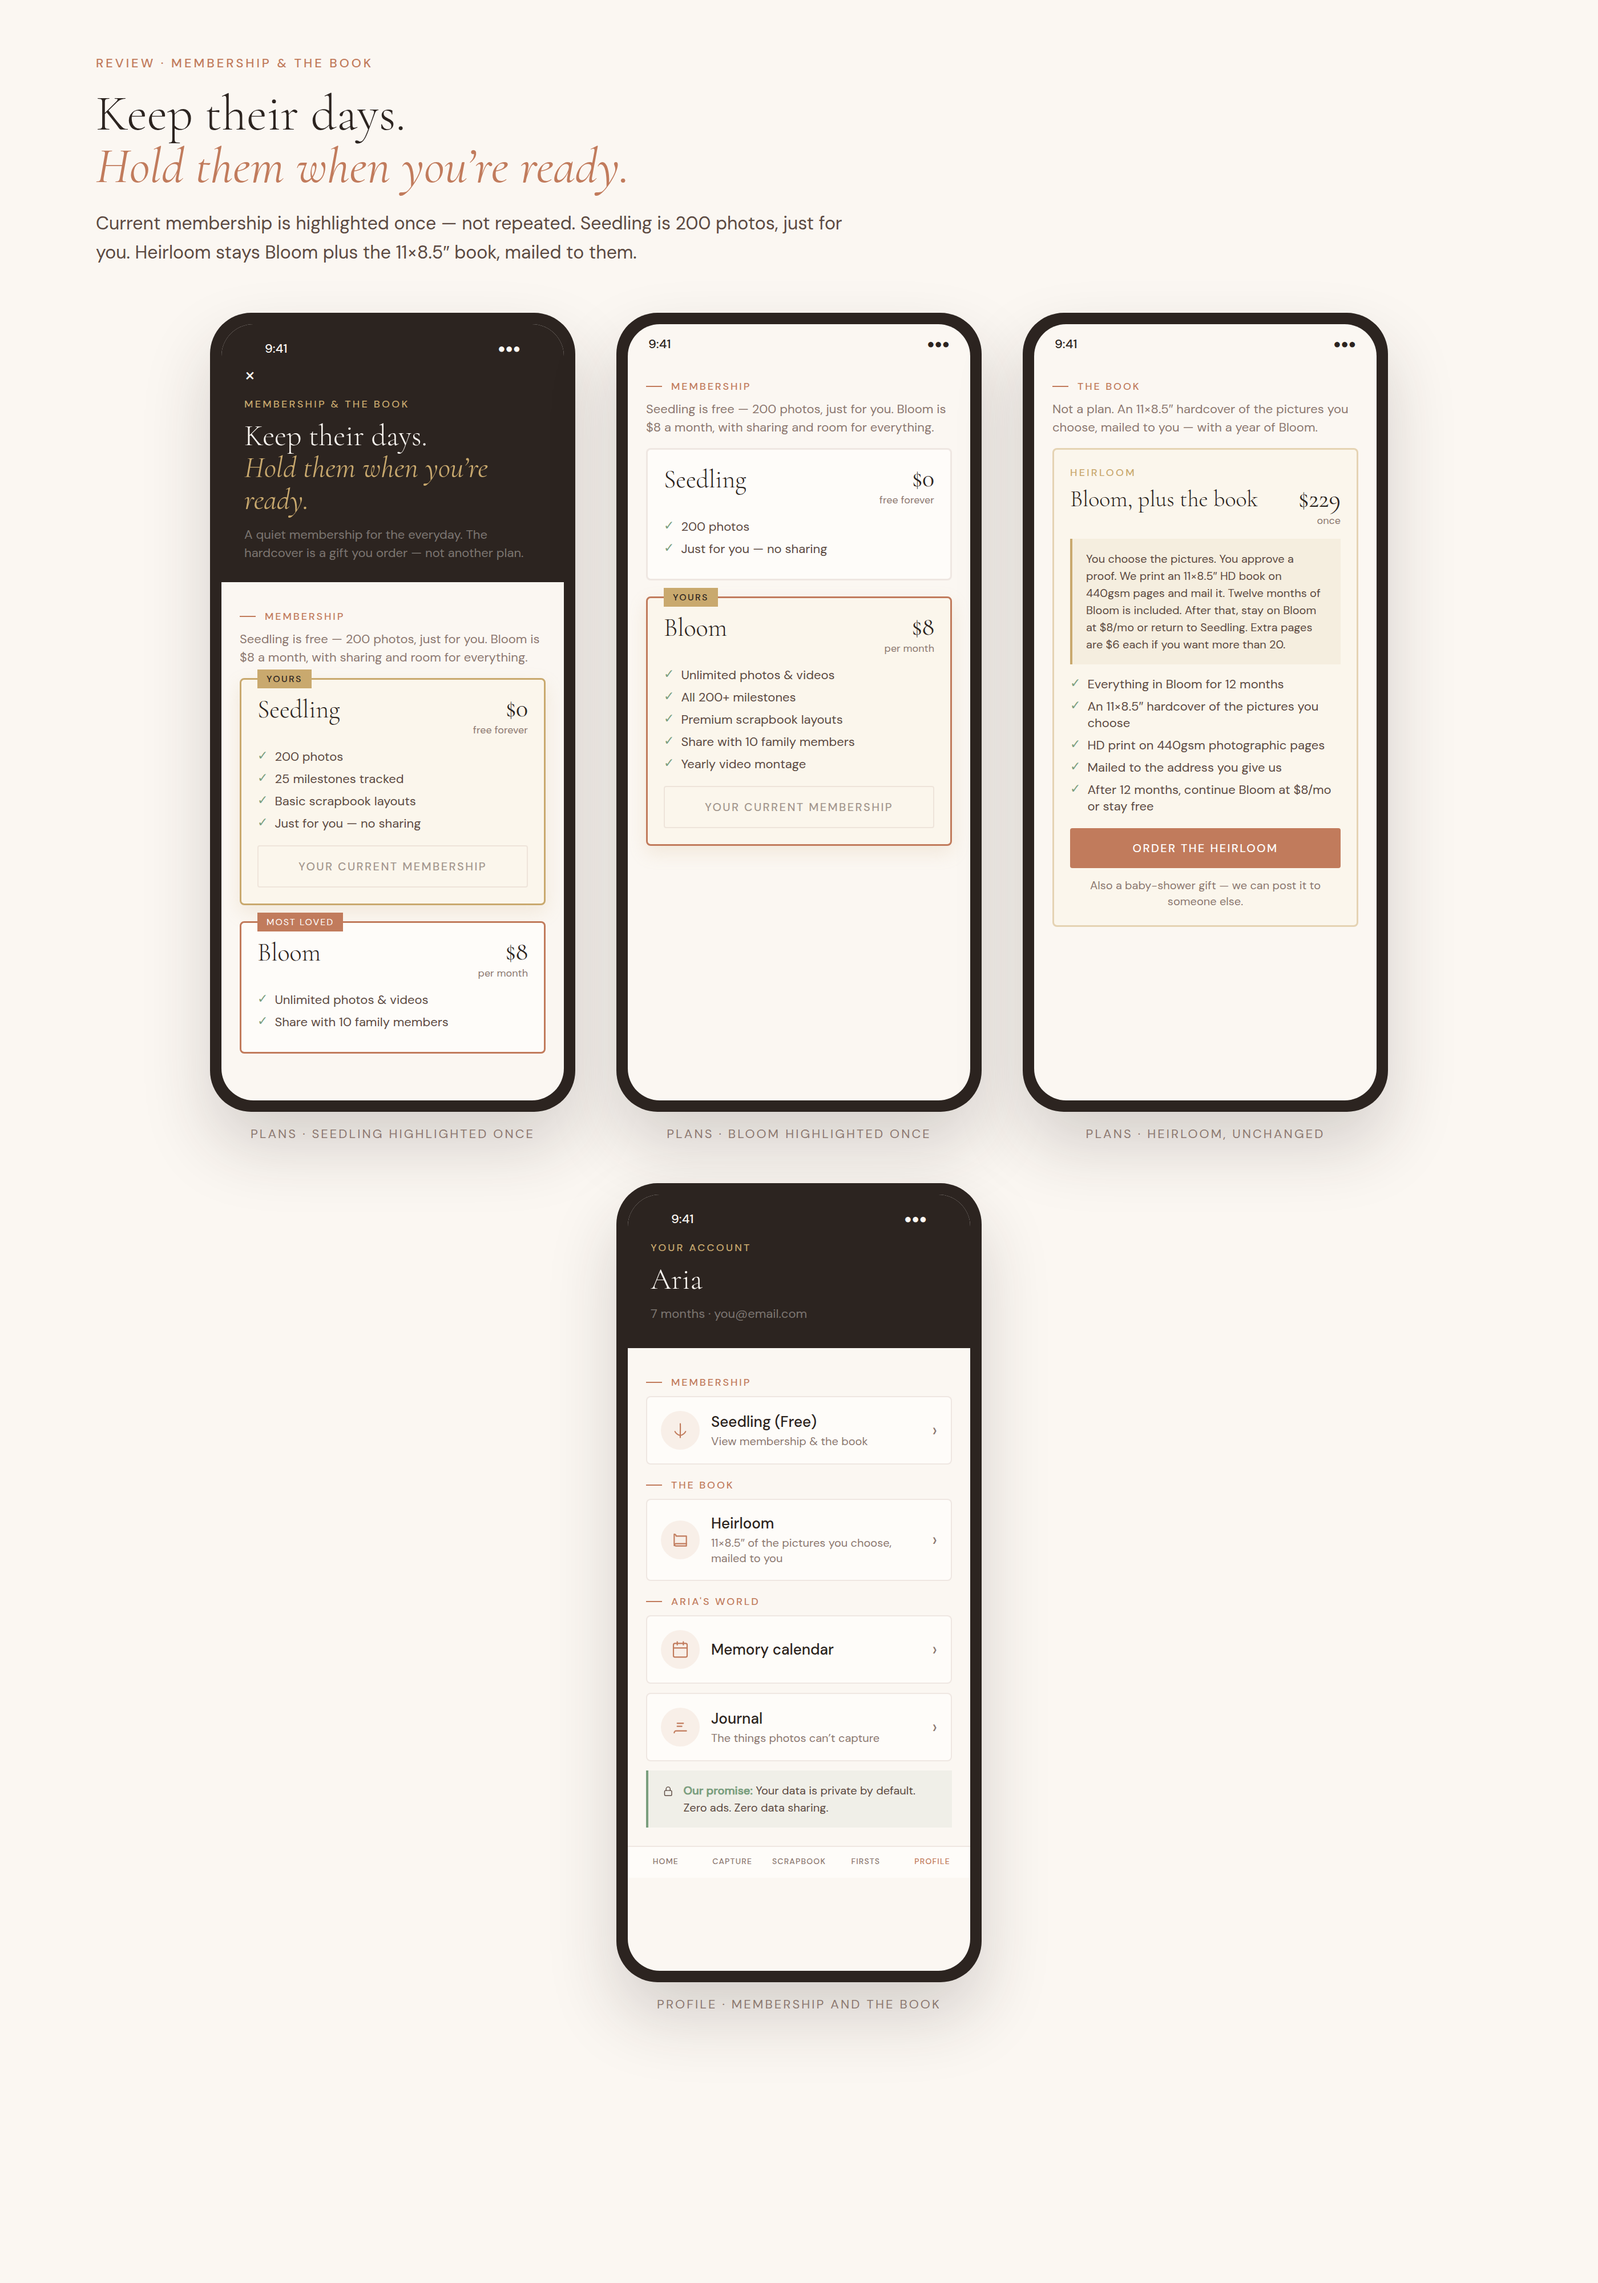
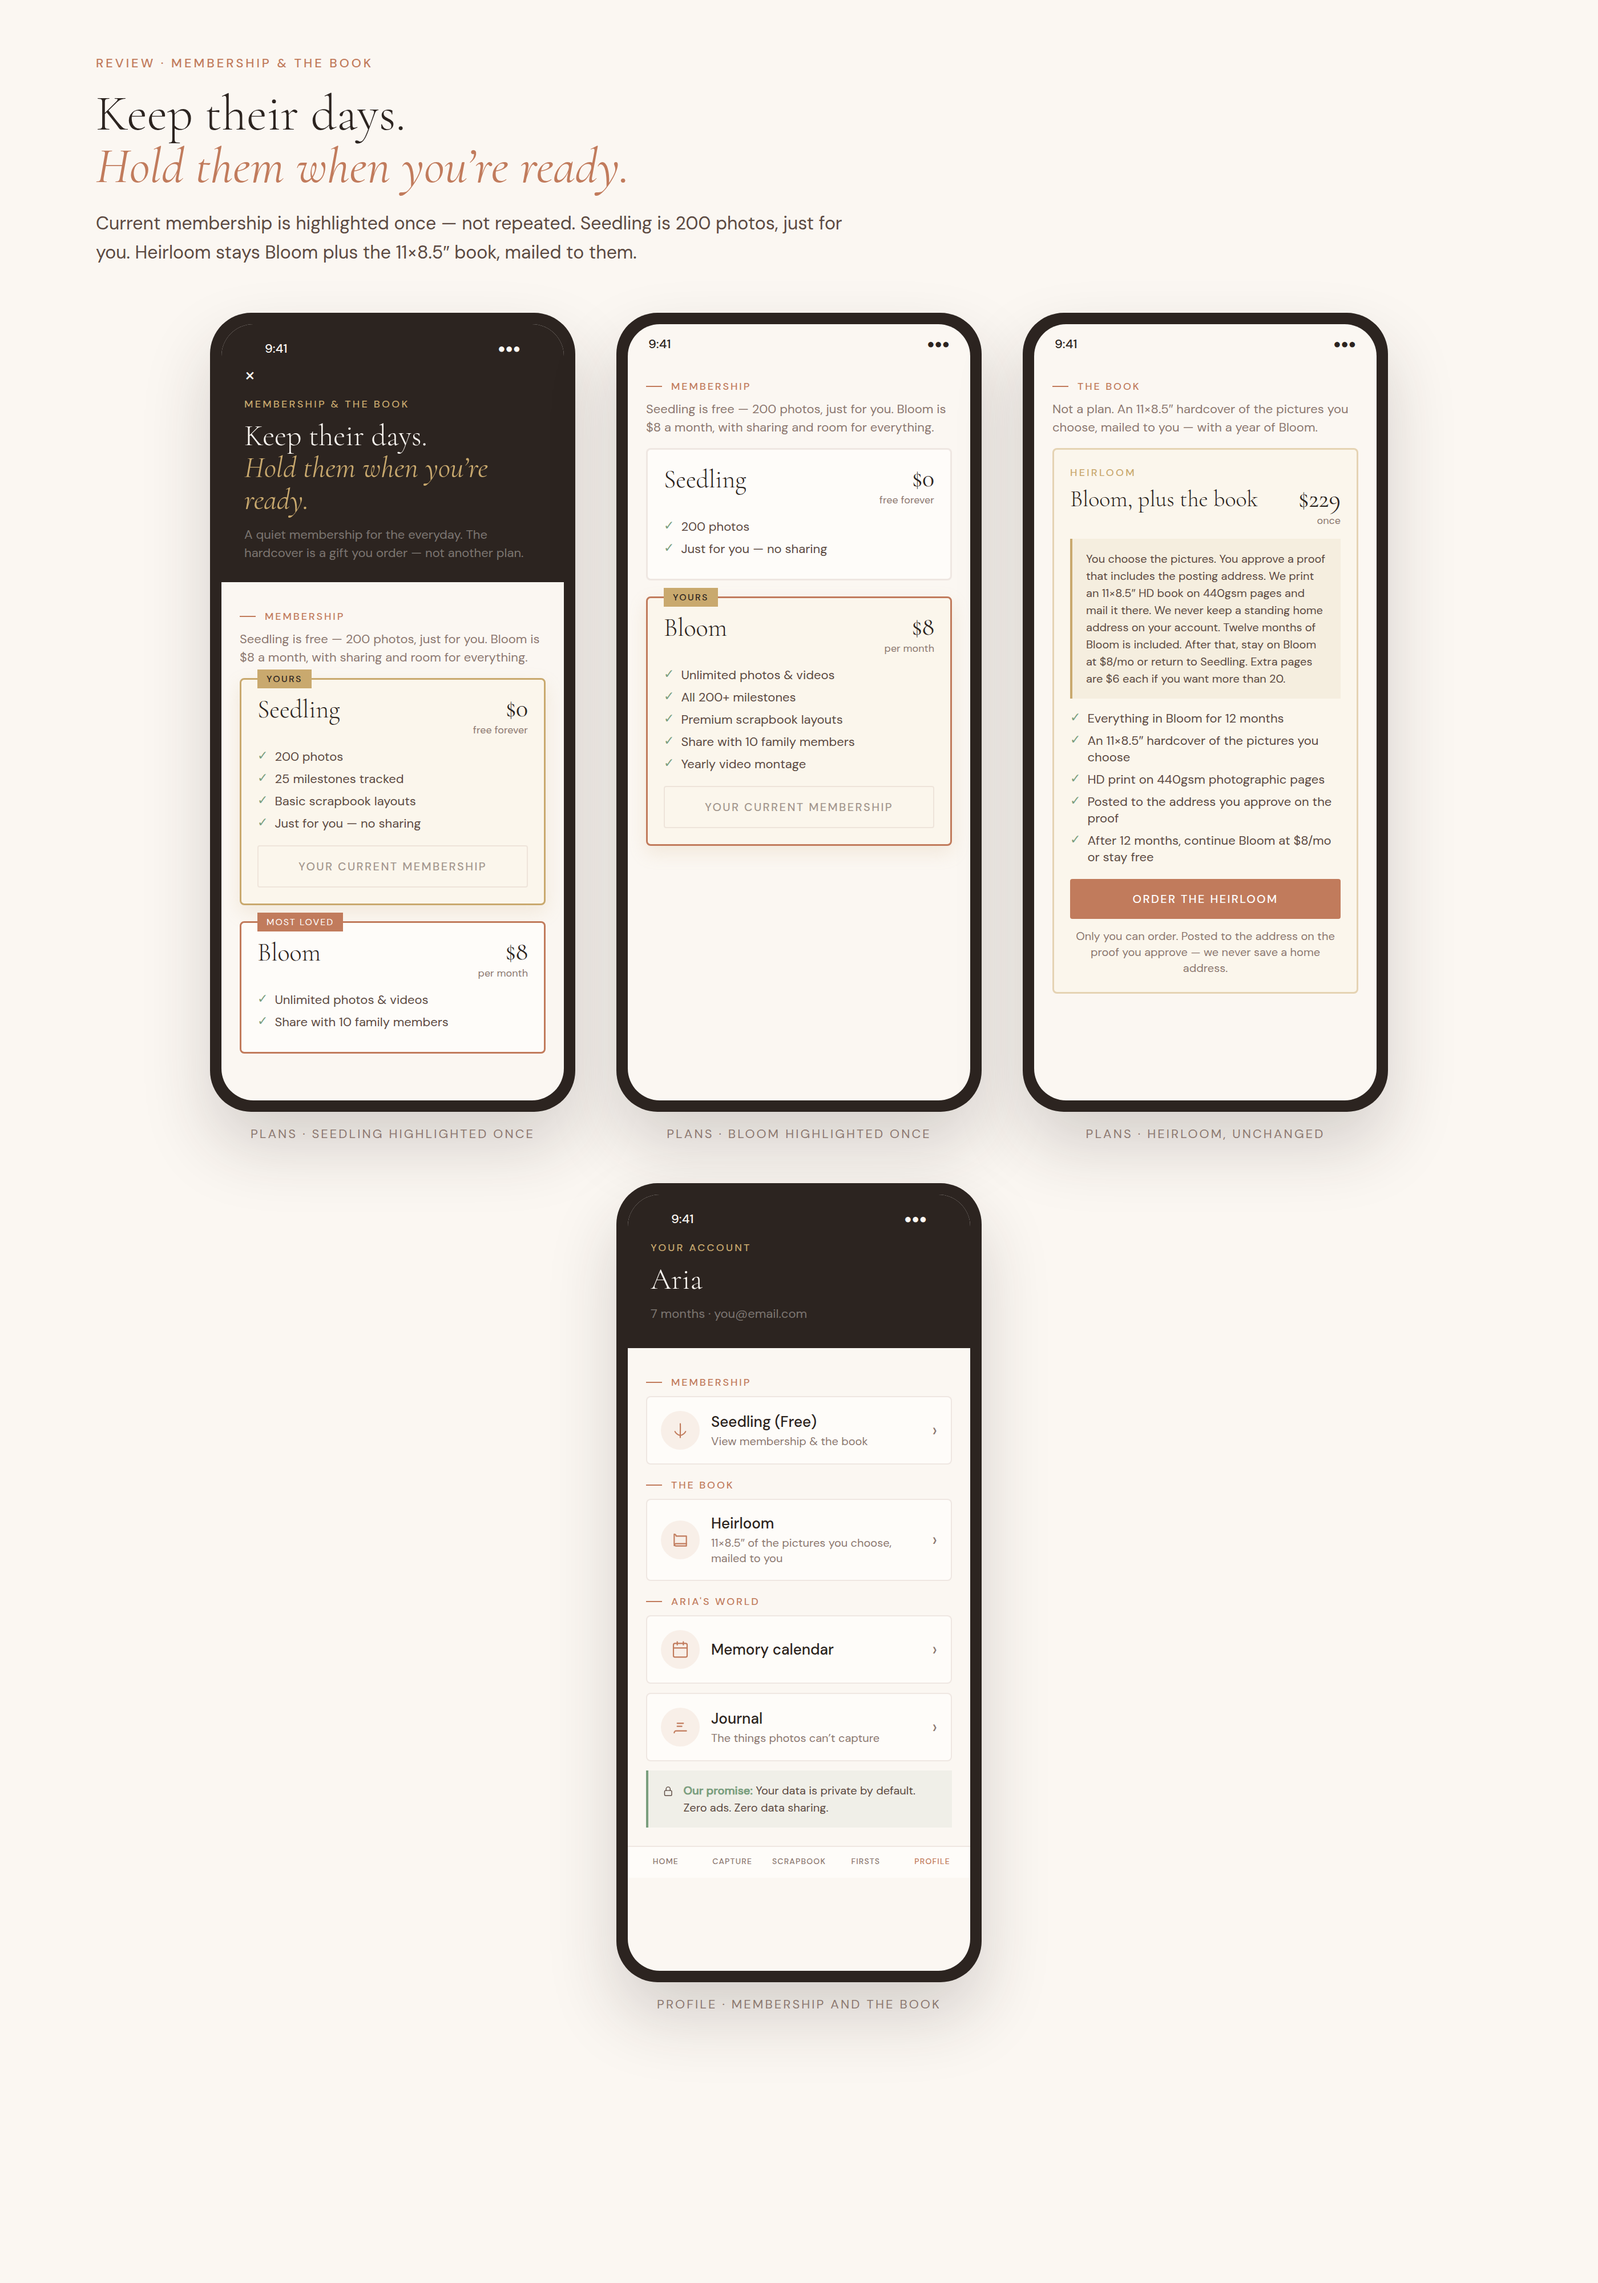
Drop gift-ship copy; books go only to the proof address
Sending a child’s photos to any other address is an easy leak. Heirloom now says only the owner can order, the proof shows the posting address, and we never save a home address.

Changed region(s): [[0.6525, 0.25, 0.8389, 0.4375]]

diff --git a/mobile/app/plan.tsx b/mobile/app/plan.tsx
@@ -26,7 +26,7 @@ const HEIRLOOM_FEATURES = [
   'Everything in Bloom for 12 months',
   'An 11×8.5″ hardcover of the pictures you choose',
   'HD print on 440gsm photographic pages',
-  'Mailed to the address you give us',
+  'Posted to the address you approve on the proof',
   'Nothing else starts — after 12 months, continue Bloom at $8/mo or stay free',
 ];
 
@@ -57,7 +57,7 @@ export default function Plan() {
   const orderHeirloom = () => {
     Alert.alert(
       'Order the Heirloom',
-      'This is the book — not another membership. You’ll pick the pictures, approve a proof, and we’ll mail an 11×8.5″ hardcover. Twelve months of Bloom is included. Billing will be App Store / Google Play in production.',
+      'This is the book — not another membership. You’ll pick the pictures, approve a proof that shows the posting address, and we’ll mail an 11×8.5″ hardcover. Twelve months of Bloom is included. Billing will be App Store / Google Play in production.',
       [
         { text: 'Cancel', style: 'cancel' },
         {
@@ -183,9 +183,10 @@ export default function Plan() {
           </View>
           <InfoBox accent={colors.gold} tint="rgba(201,169,110,0.1)" style={styles.clarity}>
             <AppText variant="caption" color={colors.inkLight} style={styles.clarityText}>
-              You choose the pictures. You approve a proof. We print an 11×8.5″ HD book on 440gsm pages and
-              mail it. Twelve months of Bloom is included. After that, stay on Bloom at $8/mo or return to
-              Seedling. Extra pages are $6 each if you want more than 20.
+              You choose the pictures. You approve a proof that includes the posting address. We print an
+              11×8.5″ HD book on 440gsm pages and mail it there. We never keep a standing home address on
+              your account. Twelve months of Bloom is included. After that, stay on Bloom at $8/mo or return
+              to Seedling. Extra pages are $6 each if you want more than 20.
             </AppText>
           </InfoBox>
           {HEIRLOOM_FEATURES.map((f) => (
@@ -199,7 +200,8 @@ export default function Plan() {
             />
           </View>
           <AppText variant="caption" color={colors.inkMuted} style={styles.giftHint}>
-            Also a baby-shower gift — we can post it to someone else.
+            Only you can order. Posted to the address on the proof you approve — we never save a home
+            address.
           </AppText>
         </View>
       </View>

diff --git a/mobile/mockups/heirloom-book.html b/mobile/mockups/heirloom-book.html
@@ -168,14 +168,14 @@
                 <div class="period">once</div>
               </div>
             </div>
-            <div class="info">You choose the pictures. You approve a proof. We print an 11×8.5″ HD book on 440gsm pages and mail it. Twelve months of Bloom is included. After that, stay on Bloom at $8/mo or return to Seedling. Extra pages are $6 each if you want more than 20.</div>
+            <div class="info">You choose the pictures. You approve a proof that includes the posting address. We print an 11×8.5″ HD book on 440gsm pages and mail it there. We never keep a standing home address on your account. Twelve months of Bloom is included. After that, stay on Bloom at $8/mo or return to Seedling. Extra pages are $6 each if you want more than 20.</div>
             <div class="feat"><span class="check">✓</span> Everything in Bloom for 12 months</div>
             <div class="feat"><span class="check">✓</span> An 11×8.5″ hardcover of the pictures you choose</div>
             <div class="feat"><span class="check">✓</span> HD print on 440gsm photographic pages</div>
-            <div class="feat"><span class="check">✓</span> Mailed to the address you give us</div>
+            <div class="feat"><span class="check">✓</span> Posted to the address you approve on the proof</div>
             <div class="feat"><span class="check">✓</span> After 12 months, continue Bloom at $8/mo or stay free</div>
             <div class="btn">Order the Heirloom</div>
-            <p class="gift">Also a baby-shower gift — we can post it to someone else.</p>
+            <p class="gift">Only you can order. Posted to the address on the proof you approve — we never save a home address.</p>
           </div>
         </div>
       </div></div>
